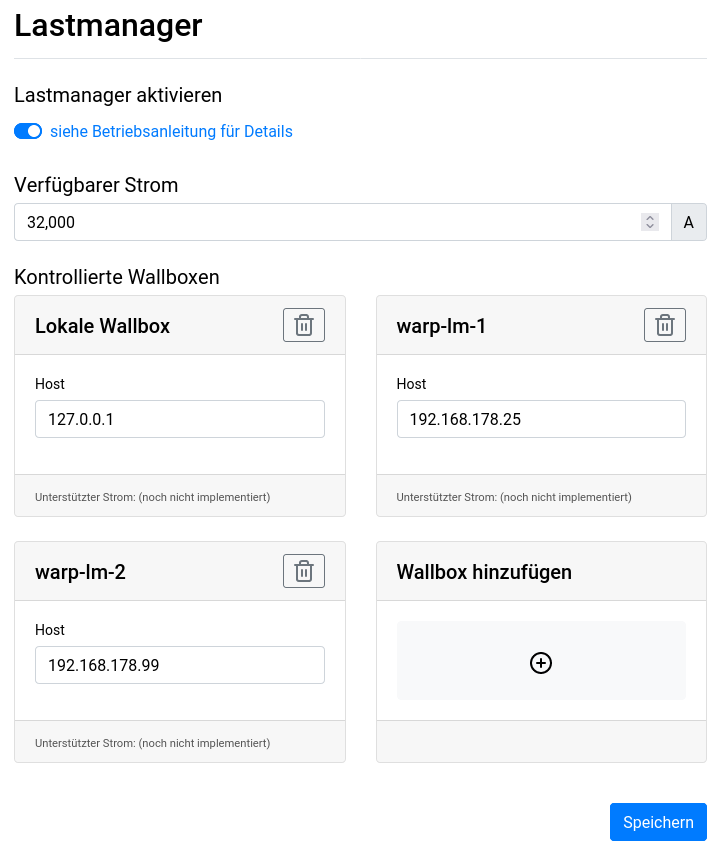
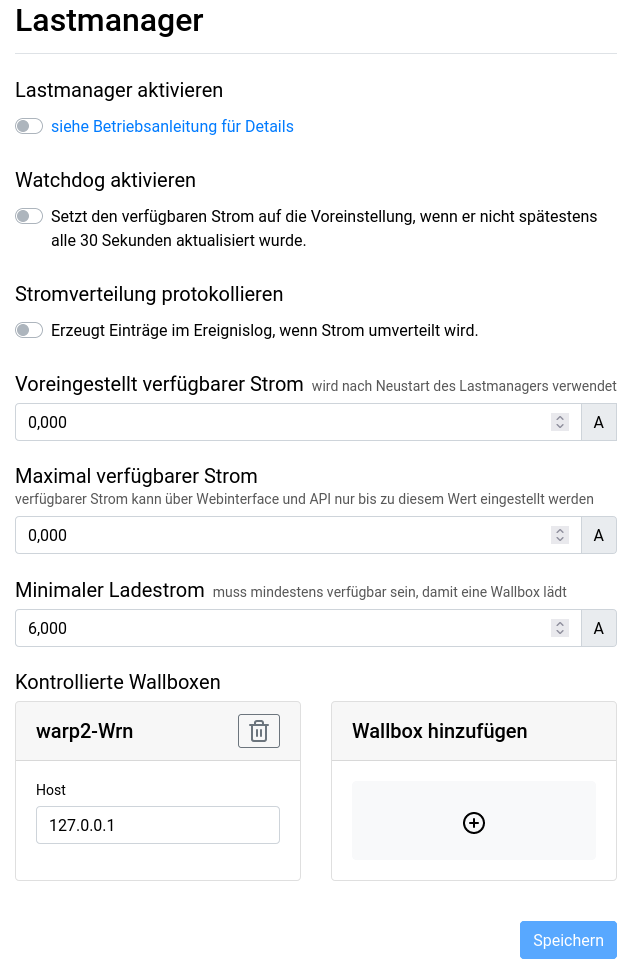
manual: Update screenshot. Be explicit about charge manager.

diff --git a/manual/manual_warp2.tex b/manual/manual_warp2.tex
@@ -792,6 +792,9 @@ white,title=Hinweis,left*=2mm,right*=2mm,boxsep=1mm,bottom=1mm,top=1mm]#1\end{tc
 	\newpage
 	\section{Lastmanagement zwischen mehreren WARP Chargern}\label{charge_manager}
 	Mit dem Lastmanagement ist es möglich, einen verfügbaren Gesamt-Ladestrom zwischen WARP Chargern aufzuteilen.
+	Hierbei wird eine Wallbox als Lastmanager konfiguriert, die die weiteren Wallboxen im Verbund steuert und ihnen Ladeströme
+	zuweist.
+
 	Es kann sowohl ein fester Gesamtstrom verteilt werden, um zum Beispiel den Hausanschluss nicht zu überlasten,
 	als auch der Gesamtstrom über das Webinterface und die API dynamisch gesetzt werden
 	um einen PV-Überschussstrom auf mehreren Wallboxen zu verteilen.
@@ -814,7 +817,7 @@ white,title=Hinweis,left*=2mm,right*=2mm,boxsep=1mm,bottom=1mm,top=1mm]#1\end{tc
 	das Lastmanagement aktiviert werden. Nach Aktivierung lädt eine Wallbox nur noch,
 	wenn die Ladung vom Lastmanagement freigegeben wird.
 
-	Auf der Wallbox, die die anderen steuern soll, müssen dann auf der Lastmanager-Unterseite
+	Zusätzlich müssen auf der Wallbox, die die anderen steuern soll (dem Lastmanager), auf der Lastmanager-Unterseite
 	alle weiteren Wallboxen mit ihrer IP-Adresse hinzugefügt werden.
 	Im einfachsten Fall, in dem eine feste Menge Strom verteilt werden soll, muss nun nur noch dieser
 	Strom als \enquote{Voreingestellt verfügbarer Strom} \textbf{und} als \enquote{Maximal verfügbarer Strom}
